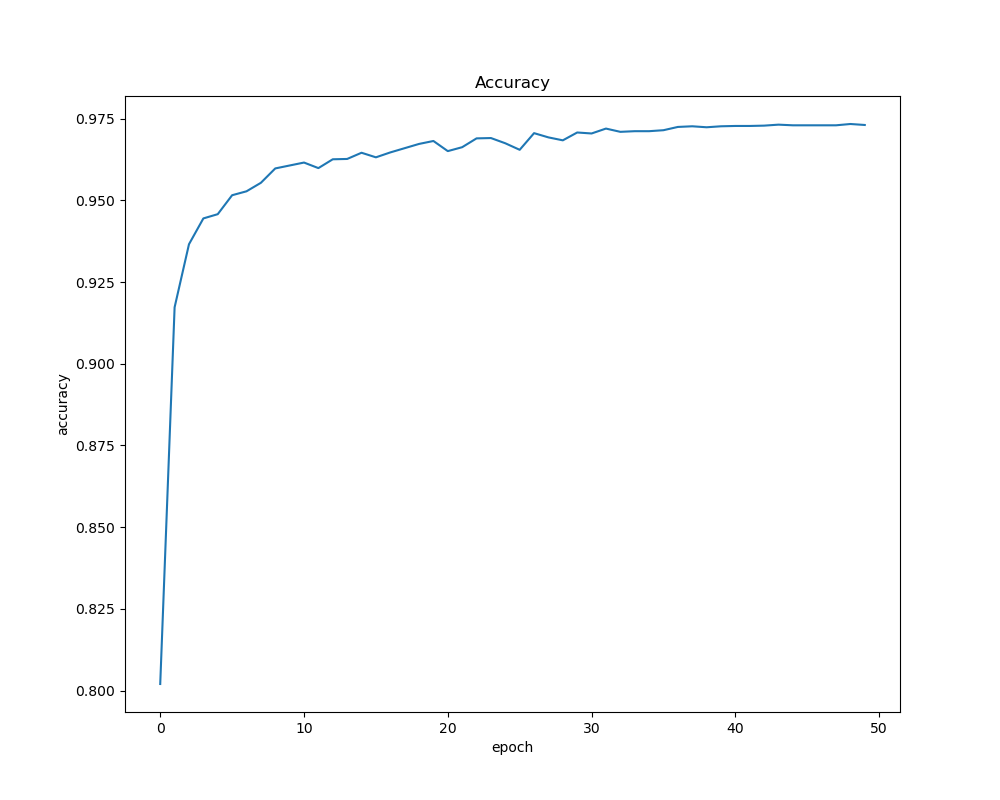
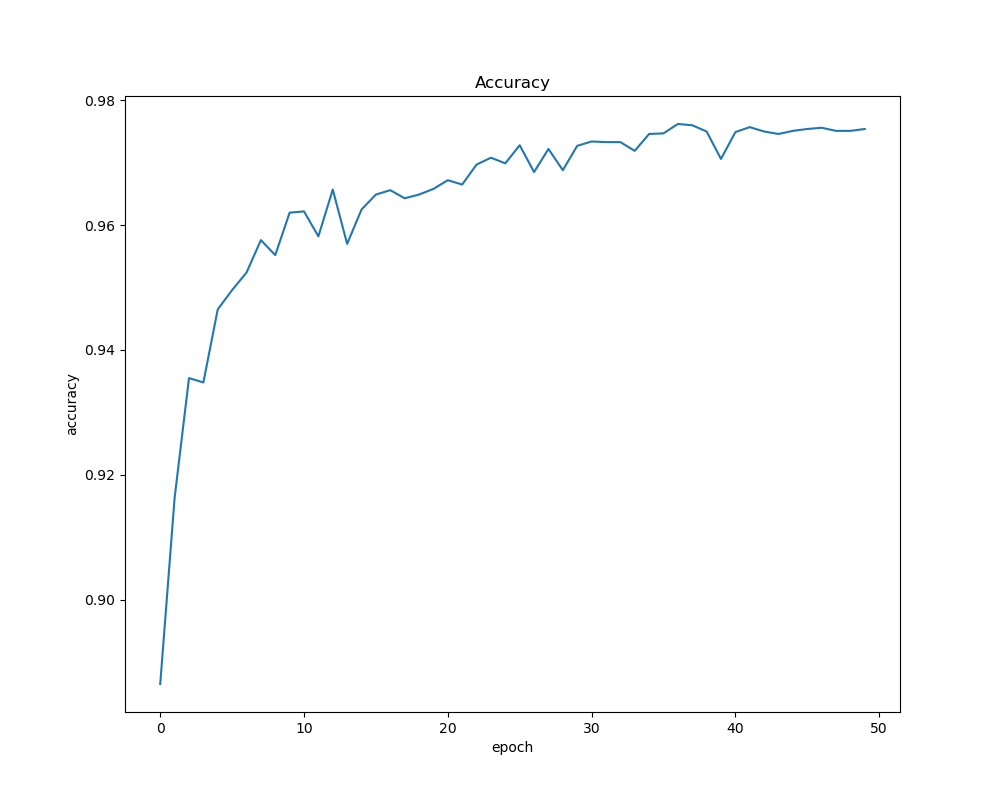
修正公式

diff --git a/model/__init__.py b/model/__init__.py
@@ -1,32 +1,39 @@
+import pathlib
 from typing import Iterable
 
 import numpy as np
 
 
 class NeuralNetwork:
-    def __init__(self, in_size=784, out_size=10, hidden_layer_num=2, hidden_size=None):
+    def __init__(self, in_size=784, out_size=10, hidden_layer_num=2, hidden_size=None, detect=False):
         self.in_size = in_size  # 输入特征的个数
         self.out_size = out_size  # 输出特征的个数
         self.hidden_layer_num = hidden_layer_num  # 隐藏层数
-        if hidden_size is None:
-            self.hidden_size = [in_size // 2] * hidden_layer_num  # 隐藏层的神经元个数
-        elif isinstance(hidden_size, int):
-            # 线性递减
-            self.hidden_size = [in_size // (2 ** i) for i in range(hidden_layer_num)]
-        elif isinstance(hidden_size, Iterable):
-            if hasattr(hidden_size, "__len__") and len(hidden_size) == hidden_layer_num:
-                self.hidden_size = hidden_size
+        self.hidden_size = hidden_size  # 隐藏层的神经元个数
+        self.check()
+        if not detect:  # 如果不是检测模式，就随机初始化权重
+            self.__weights = {f"w{i + 1}": np.random.randn(s1, s2) for i, (s1, s2) in
+                              enumerate(zip([self.in_size] + self.hidden_size,
+                                            self.hidden_size + [self.out_size]))}  # 权重，字典类型，记录每层的权重
+            self.__bias = {f"b{i + 1}": np.random.randn(s) for i, s in
+                           enumerate(self.hidden_size + [self.out_size])}  # 偏置
+            self.__grads = {f"w{i + 1}": np.zeros_like(w) for i, w in
+                            enumerate(self.__weights.values())}  # 权重梯度，记录每层的梯度
+            self.__grads.update({f"b{i + 1}": np.zeros_like(b) for i, b in enumerate(self.__bias.values())})
+            self.__cache = {}  # 缓存，记录每层的输出，用于反向传播
+
+    def check(self):
+        if self.hidden_size is None:
+            self.hidden_size = [self.in_size // 2] * self.hidden_layer_num  # 隐藏层的神经元个数
+        elif isinstance(self.hidden_size, int):
+            self.hidden_size = [self.hidden_size] * self.hidden_layer_num
+        elif isinstance(self.hidden_size, Iterable):
+            if hasattr(self.hidden_size, "__len__") and len(self.hidden_size) == self.hidden_layer_num:
+                self.hidden_size = self.hidden_size
             else:
-                self.hidden_size = [in_size // (2 ** i) for i in range(hidden_layer_num)]
+                self.hidden_size = [self.in_size // (2 ** i) for i in range(self.hidden_layer_num)]
         else:
             raise TypeError("hidden_size must be int or Iterable")
-        self.__weights = {f"w{i + 1}": np.random.randn(s1, s2) for i, (s1, s2) in
-                          enumerate(zip([self.in_size] + self.hidden_size,
-                                        self.hidden_size + [self.out_size]))}  # 权重，字典类型，记录每层的权重
-        self.__bias = {f"b{i + 1}": np.random.randn(s) for i, s in enumerate(self.hidden_size + [self.out_size])}  # 偏置
-        self.__grads = {f"w{i + 1}": np.zeros_like(w) for i, w in enumerate(self.__weights.values())}  # 权重梯度，记录每层的梯度
-        self.__grads.update({f"b{i + 1}": np.zeros_like(b) for i, b in enumerate(self.__bias.values())})
-        self.__cache = {}  # 缓存，记录每层的输出，用于反向传播
 
     def forward(self, x):  # 前向传播
         self.__cache["a0"] = x  # a0 = x
@@ -50,15 +57,16 @@ class NeuralNetwork:
         # delta = y_pred - y
         y = self.one_hot_encode(y)
         delta = y_pred - y  # dJ/da = y_pred - y 交叉熵损失对于a的导数为y_pred - y
-        # 计算最后一层的梯度 # dJ/dw = a * dJ/da
-        # 剩余部分的梯度与普通的逻辑回归相同，利用链式法则计算
-        self.__grads[f"w{self.hidden_layer_num + 1}"] = np.dot(self.__cache[f"a{self.hidden_layer_num}"].T, delta)
-        self.__grads[f"b{self.hidden_layer_num + 1}"] = np.sum(delta, axis=0)
+        self.__grads[f"w{self.hidden_layer_num + 1}"] = np.dot(self.__cache[f"a{self.hidden_layer_num}"].T,
+                                                               delta) / len(y)
+        self.__grads[f"b{self.hidden_layer_num + 1}"] = np.sum(delta, axis=0) / len(y)
         # 计算前面的梯度
+        pred_grad = delta
         for i in range(self.hidden_layer_num, 0, -1):
-            delta = np.dot(delta, self.__weights[f"w{i + 1}"].T) * self.__cache[f"a{i}"] * (1 - self.__cache[f"a{i}"])
-            self.__grads[f"w{i}"] = np.dot(self.__cache[f"a{i - 1}"].T, delta)
-            self.__grads[f"b{i}"] = np.sum(delta, axis=0)
+            pred_grad = np.dot(pred_grad, self.__weights[f"w{i + 1}"].T) * self.__cache[f"a{i}"] * (
+                    1 - self.__cache[f"a{i}"])
+            self.__grads[f"w{i}"] = np.dot(self.__cache[f"a{i - 1}"].T, pred_grad)
+            self.__grads[f"b{i}"] = np.sum(pred_grad, axis=0)
 
     def update(self, lr):  # 更新参数
         for i in range(1, self.hidden_layer_num + 1):
@@ -87,9 +95,25 @@ class NeuralNetwork:
     def predict(self, x):
         return np.argmax(self.forward(x), axis=1)
 
-    def accuracy(self, x, y):  # y是one-hot编码前的y,即y_true
-        return np.sum(self.predict(x) == np.argmax(self.one_hot_encode(y), axis=1)) / len(x)
+    def save(self, path):
+        path = pathlib.Path(path)
+        parent = path.parent
+        if not parent.exists():
+            parent.mkdir(parents=True)
+        with path.open("wb") as f:
+            # 保存权重，输入维度，输出维度，隐藏层数，隐藏层维度
+            np.savez(f, **self.__weights, **self.__bias, in_size=self.in_size, out_size=self.out_size,
+                     hidden_layer_num=self.hidden_layer_num, hidden_size=self.hidden_size)
 
-    def save(self):
-        with open("result/net_weight.npz", "wb") as f:
-            np.savez(f, **self.__weights, **self.__bias)
+    # 加载权重
+    def load(self, path):
+        path = pathlib.Path(path)
+        assert path.exists()
+        with path.open("rb") as f:
+            data = np.load(f)
+            self.__weights = {k: v for k, v in data.items() if k.startswith("w")}
+            self.__bias = {k: v for k, v in data.items() if k.startswith("b")}
+            self.in_size = data["in_size"]
+            self.out_size = data["out_size"]
+            self.hidden_layer_num = data["hidden_layer_num"]
+            self.hidden_size = data["hidden_size"]

diff --git a/train.py b/train.py
@@ -4,6 +4,7 @@ import numpy as np
 from matplotlib import pyplot as plt
 
 from model import NeuralNetwork
+from utils import test
 from utils.data import MNIST, save_data, show_save_fig
 
 mnist = MNIST(root="./data", transform=[lambda x: x / 255.0,
@@ -16,8 +17,9 @@ test_images, test_labels = mnist.test_images, mnist.test_labels
 plt.figure(figsize=(10, 10))
 for i in range(16):
     plt.subplot(4, 4, i + 1)
-    plt.imshow(train_images[random.randint(0, len(train_images))], cmap="gray")
-    plt.title(f"Label: {train_labels[random.randint(0, len(train_labels))]}")
+    img_idx = random.randint(0, len(train_images))
+    plt.imshow(train_images[img_idx].reshape(28, 28), cmap="gray")
+    plt.title(f"Label: {train_labels[img_idx]}")
     plt.axis("off")
 plt.show()
 # 超参数
@@ -29,11 +31,13 @@ hidden_size = [256, 128, 64]
 
 net = NeuralNetwork(in_size=784, out_size=10, hidden_layer_num=hidden_layer_num, hidden_size=hidden_size)
 
-loss_list = []
+train_loss_list = []
+test_loss_list = []
 accuracy_list = []
 for epoch in range(epochs):
     batch_index = 0
-    tmp_loss = []
+    tmp_train_loss = []
+    tmp_test_loss = []
     while batch_index < len(train_images):  # 小批量梯度下降
         batch_x = train_images[batch_index: batch_index + batch_size]
         batch_y = train_labels[batch_index: batch_index + batch_size]
@@ -45,13 +49,23 @@ for epoch in range(epochs):
         # update
         net.update(lr)
         # loss
-        tmp_loss.append(net.loss(batch_x, batch_y))
-    loss_list.append(np.mean(tmp_loss).item())
-    accuracy_list.append(net.accuracy(test_images, test_labels))
-    print(f"Epoch: {epoch + 1}, Loss: {loss_list[-1]}, Accuracy: {accuracy_list[-1]}")
+        tmp_train_loss.append(net.loss(batch_x, batch_y))
+    train_loss_list.append(np.mean(tmp_train_loss).item())
+    l, acc = test(net, test_images, test_labels)
+    test_loss_list.append(l)
+    accuracy_list.append(acc)
+
+    # 验证
+    l, acc = test(net, test_images, test_labels)
+
+    print(f"Epoch: {epoch + 1}, Loss: {train_loss_list[-1]:.4f}, Accuracy: {accuracy_list[-1]:.4f}")
+
+net.save("result/params.pkl")
 # 保存数据
-save_data(loss_list, "result/loss.txt")
+save_data(train_loss_list, "result/train_loss.txt")
+save_data(test_loss_list, "result/test_loss.txt")
 save_data(accuracy_list, "result/accuracy.txt")
 # 可视化并保存
-show_save_fig(loss_list, y_label="loss", title="Loss", save_path="result/loss.png")
+show_save_fig(train_loss_list, y_label="loss", title="Train Loss", save_path="result/train_loss.png")
+show_save_fig(test_loss_list, y_label="loss", title="Test Loss", save_path="result/test_loss.png")
 show_save_fig(accuracy_list, y_label="accuracy", title="Accuracy", save_path="result/accuracy.png")

diff --git a/utils/__init__.py b/utils/__init__.py
@@ -1,15 +1,17 @@
 import numpy as np
 
 
-def validate(net, test_images, test_labels, batch_size=64):
+def test(net, test_images, test_labels, batch_size=64):
     batch_index = 0
-    correct = 0
-    total = 0
+    correct = 0  # 正确数
+    total = 0  # 总数
+    loss = 0  # 损失
     while batch_index < len(test_images):
         batch_x = test_images[batch_index: batch_index + batch_size]
         batch_y = test_labels[batch_index: batch_index + batch_size]
         batch_index += batch_size
-        y_pred = np.argmax(net.forward(batch_x), axis=1, keepdims=True)
-        total += batch_y.size(0)
+        y_pred = np.argmax(net.forward(batch_x), axis=1)
+        loss += net.loss(batch_x, batch_y)
+        total += len(batch_y)
         correct += (y_pred == batch_y).sum().item()
-    return correct / total
+    return loss / total, correct / total,
